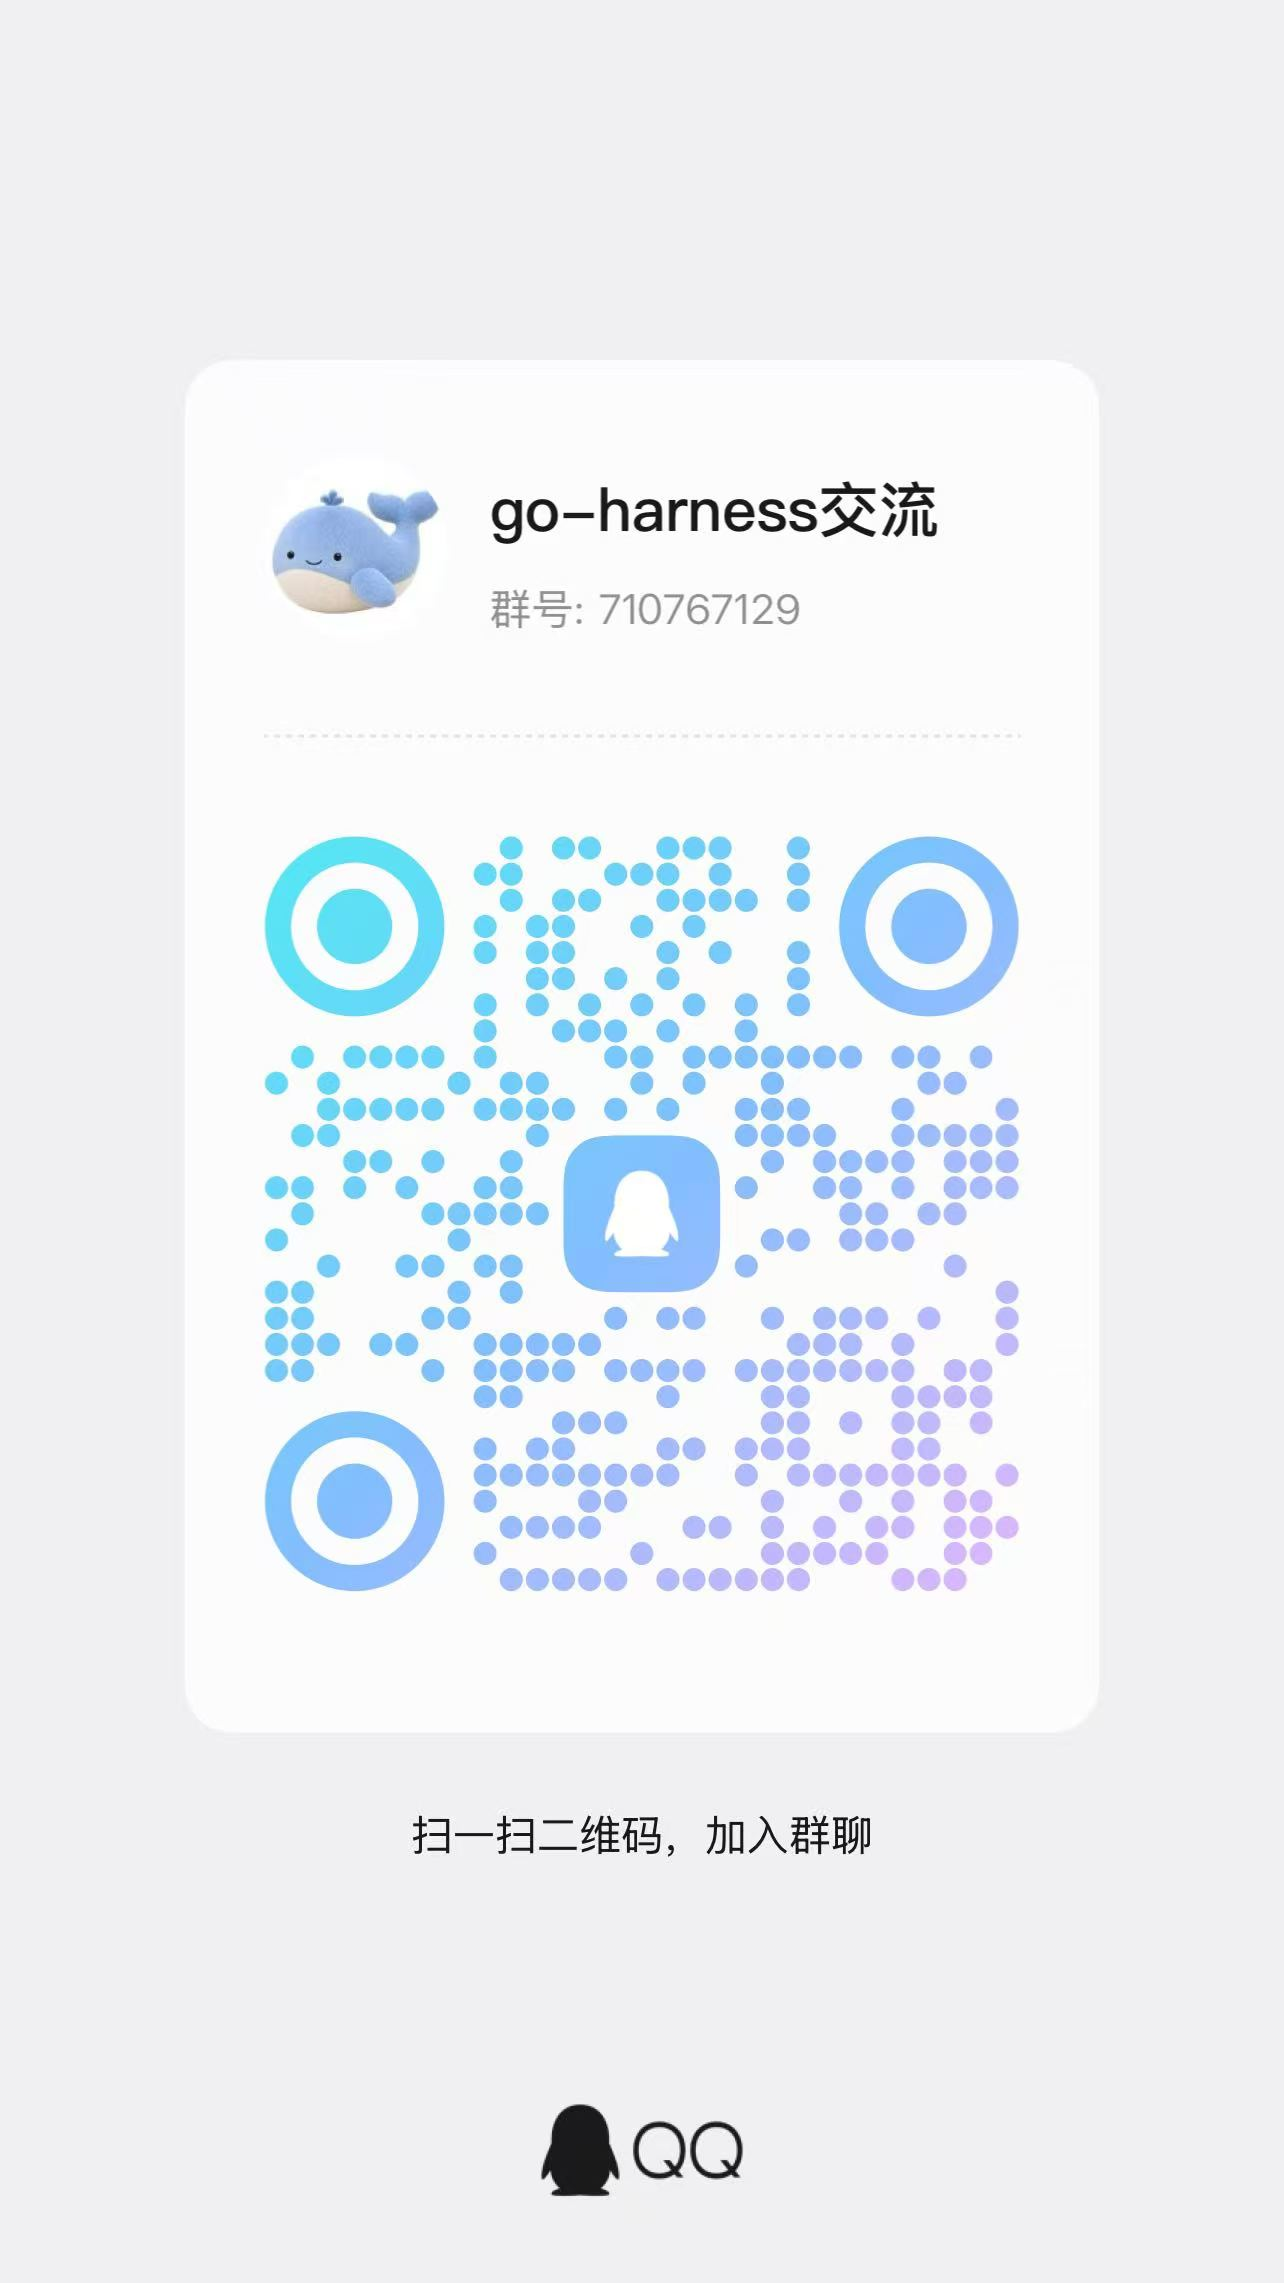
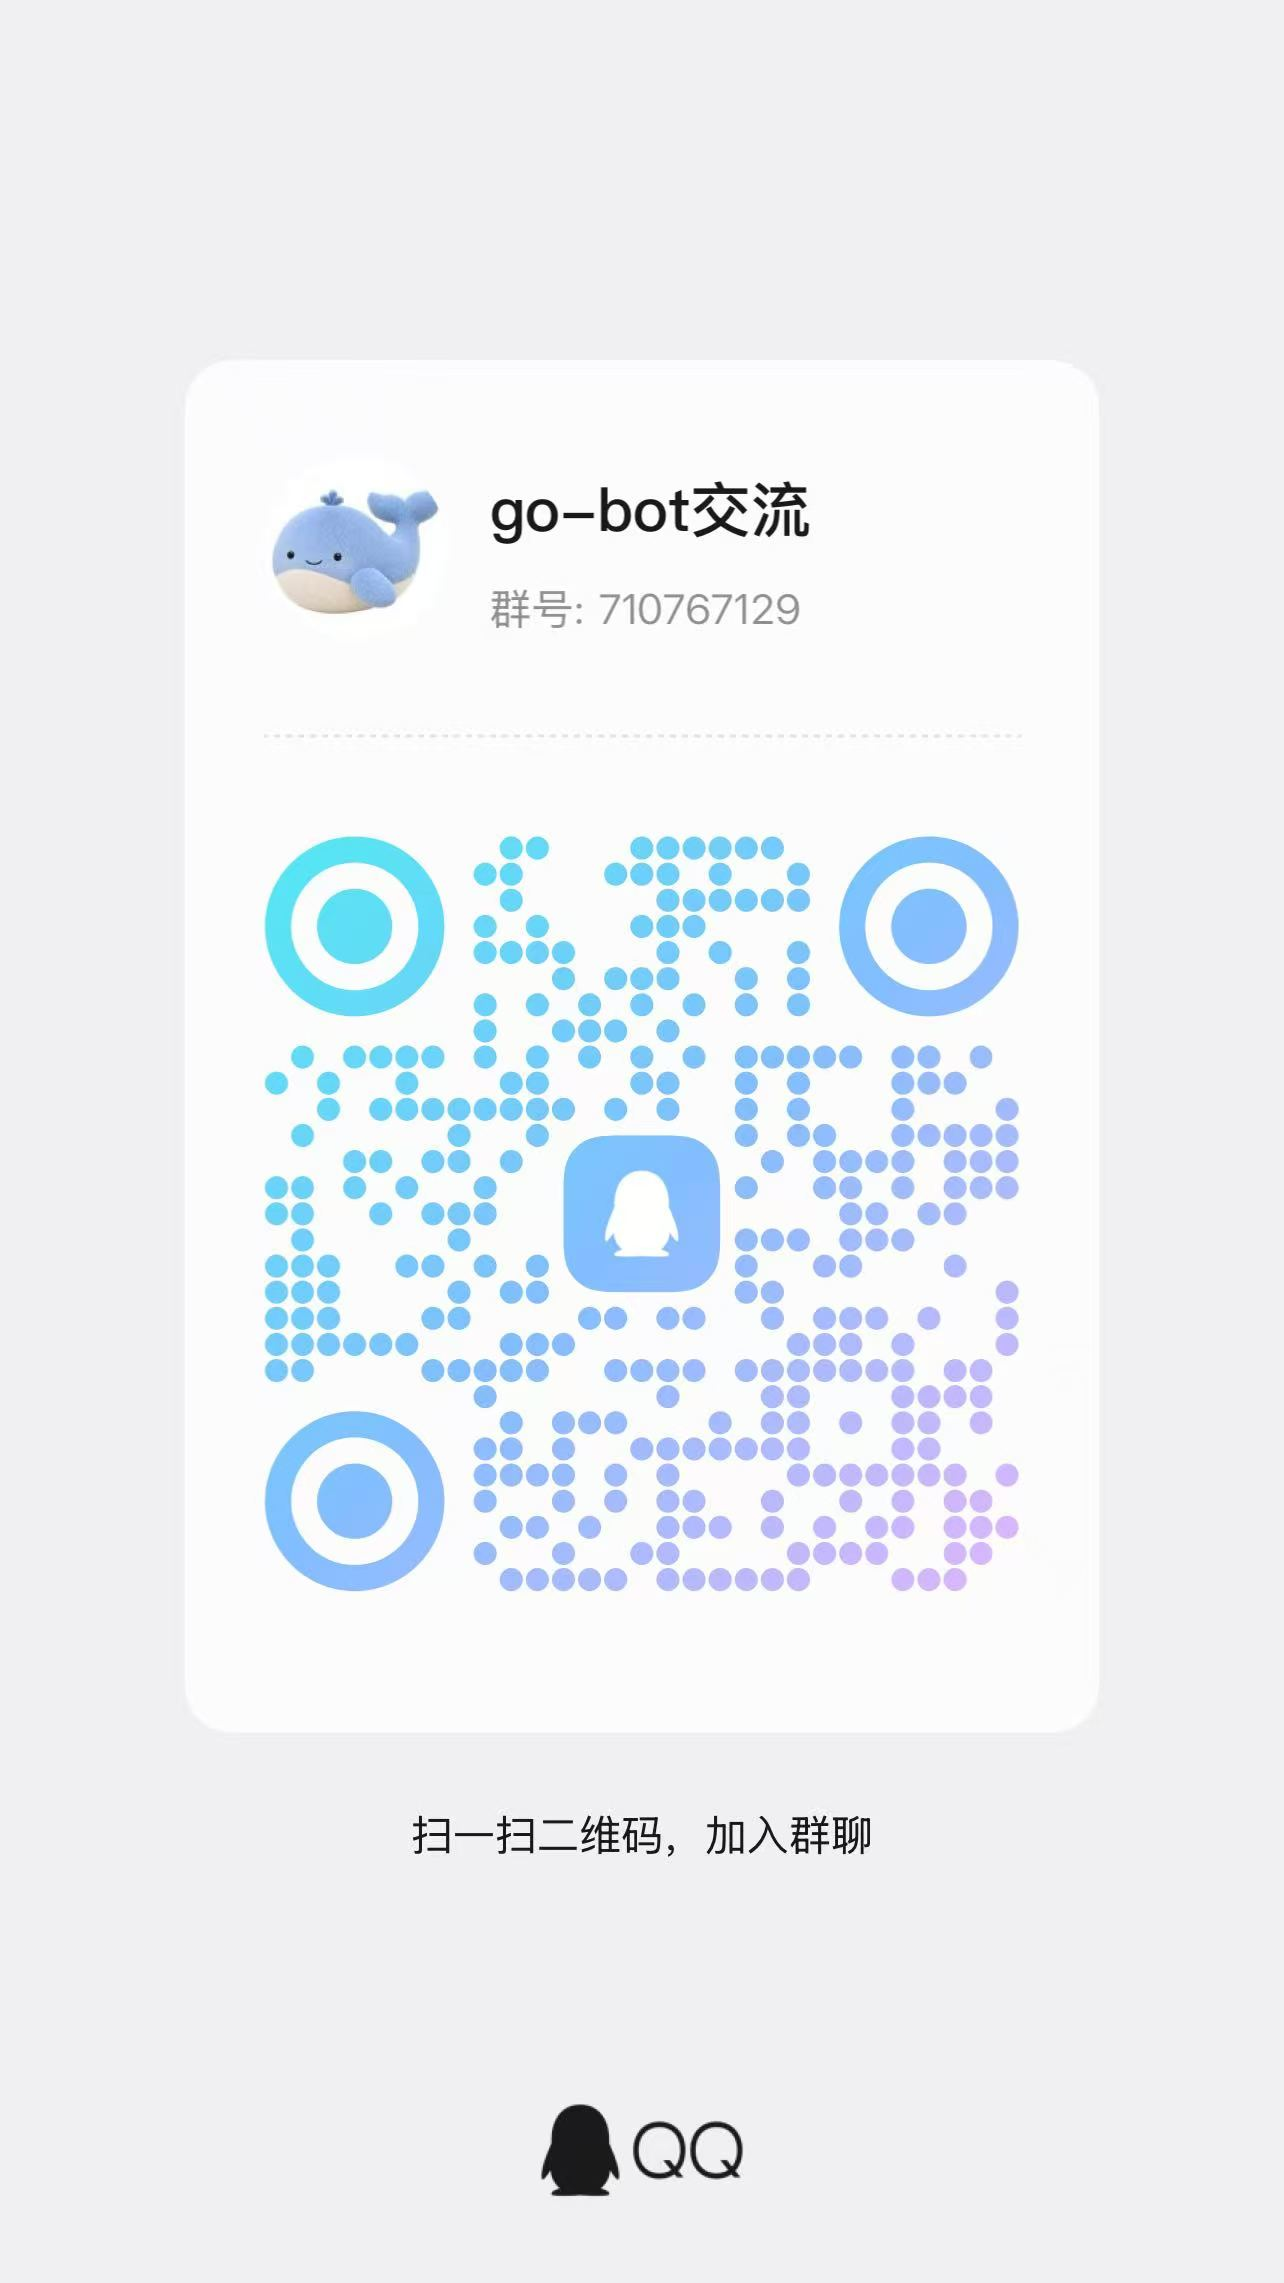
docs(readme): refresh demo galleries and community QR code

diff --git a/README.zh-CN.md b/README.zh-CN.md
@@ -30,31 +30,39 @@ go-bot 是用 Go 实现的 DeepSeek Harness，也是一款可自托管的 Person
 
 ### 移动端演示
 
-以下中文任务从 iOS 客户端发起，连接本地 Controller 和 Docker Host。Word 和 PPT 的动图末尾展示了在 WPS Office 中打开的成品。
+以下从移动端展示的中文会话均使用本地 Controller 和 Docker Host。Word 和 PPT 的动图末尾展示了在 WPS Office 中打开的成品。
 
-<table width="100%">
+<table align="center" width="100%">
   <tr>
-    <td width="50%" valign="top" align="center">
+    <td width="33%" valign="top" align="center">
       <h4>浏览器调研</h4>
-      <a href="docs/showcase/mobile-research-demo.png"><img src="docs/showcase/mobile-research-demo.png" width="340" alt="移动端查询斯坦福 AI Index，在会话中交付图表、Markdown 摘要和 CSV"></a>
+      <a href="docs/showcase/mobile-research-demo.png"><img src="docs/showcase/mobile-research-demo.png" width="260" alt="移动端查询斯坦福 AI Index，在会话中交付图表、Markdown 摘要和 CSV"></a>
       <p>核对斯坦福 AI Index，在会话中收到原文图表、摘要和数据表。<br><a href="docs/showcase/mobile-research-key.png">查看原尺寸关键帧</a></p>
     </td>
-    <td width="50%" valign="top" align="center">
+    <td width="33%" valign="top" align="center">
       <h4>Word 行业报告</h4>
-      <a href="docs/showcase/mobile-word-demo.png"><img src="docs/showcase/mobile-word-demo.png" width="340" alt="手机完成 Word 报告的制作与多轮修改，随后在 WPS Office 中打开成品"></a>
+      <a href="docs/showcase/mobile-word-demo.png"><img src="docs/showcase/mobile-word-demo.png" width="260" alt="手机完成 Word 报告的制作与多轮修改，随后在 WPS Office 中打开成品"></a>
       <p>制作行业报告，再补充调查口径和适合团队落地的试点方案。<br><a href="docs/showcase/mobile-word-key.png">查看原尺寸关键帧</a></p>
     </td>
-  </tr>
-  <tr>
-    <td width="50%" valign="top" align="center">
+    <td width="33%" valign="top" align="center">
       <h4>PPT 汇报</h4>
-      <a href="docs/showcase/mobile-slides-demo.png"><img src="docs/showcase/mobile-slides-demo.png" width="340" alt="手机制作并修改三页 PPT，随后在 WPS Office 中展示三页成品"></a>
+      <a href="docs/showcase/mobile-slides-demo.png"><img src="docs/showcase/mobile-slides-demo.png" width="260" alt="手机制作并修改三页 PPT，随后在 WPS Office 中展示三页成品"></a>
       <p>调整采用率说明，把最后一页改成三步试点计划。<br><a href="docs/showcase/mobile-slides-key.png">查看原尺寸关键帧</a></p>
     </td>
+  </tr>
+</table>
+
+<table align="center" width="67%">
+  <tr>
     <td width="50%" valign="top" align="center">
       <h4>两张参考图编辑图片</h4>
-      <a href="docs/showcase/mobile-image-demo.png"><img src="docs/showcase/mobile-image-demo.png" width="340" alt="移动端上传蓝鲸和色板，预览 Seedream 改色结果并保存到图库"></a>
+      <a href="docs/showcase/mobile-image-demo.png"><img src="docs/showcase/mobile-image-demo.png" width="260" alt="移动端上传蓝鲸和色板，预览 Seedream 改色结果并保存到图库"></a>
       <p>用 Seedream 给鲸鱼换色，全屏预览后保存到手机图库。<br><a href="docs/showcase/mobile-image-key.png">查看原尺寸关键帧</a></p>
+    </td>
+    <td width="50%" valign="top" align="center">
+      <h4>定时任务</h4>
+      <a href="docs/showcase/mobile-schedule-demo.png"><img src="docs/showcase/mobile-schedule-demo.png" width="260" alt="手机会话中的中文定时任务请求、创建确认和到点送达的提醒"></a>
+      <p>在手机会话中查看定时任务的创建确认，以及随后送达的检查清单。</p>
     </td>
   </tr>
 </table>
@@ -65,42 +73,40 @@ go-bot 是用 Go 实现的 DeepSeek Harness，也是一款可自托管的 Person
 [斯坦福 HAI《2026 AI Index》经济章节](https://hai.stanford.edu/ai-index/2026-ai-index-report/economy)，
 再用 OfficeCLI 把查到的资料整理成 Word 简报和 PPT，并根据后续消息修改两份文件。
 
-<table width="100%">
+<table align="center" width="100%">
   <tr>
-    <td width="50%" valign="top">
+    <td width="33%" valign="top" align="center">
       <h3>浏览器调研</h3>
-      <img src="docs/showcase/ai-research-demo.gif" width="100%" alt="中文调研请求、Agent 交付的资料附件与斯坦福 HAI 原文图表">
+      <img src="docs/showcase/ai-research-demo.gif" width="260" alt="中文调研请求、Agent 交付的资料附件与斯坦福 HAI 原文图表">
       <p>Agent 用 Chromium 核对行业数据，交付原文图表和调研摘要。</p>
       <a href="docs/showcase/ai-research-chat.webp">看会话截图</a> · <a href="docs/showcase/ai-index-source.webp">看原站图表</a>
     </td>
-    <td width="50%" valign="top">
+    <td width="33%" valign="top" align="center">
       <h3>Word 简报</h3>
-      <img src="docs/showcase/ai-word-demo.gif" width="100%" alt="从制作到修改 Word 简报的完整会话，以及在 WPS Office 中打开的成品">
+      <img src="docs/showcase/ai-word-demo.gif" width="260" alt="从制作到修改 Word 简报的完整会话，以及在 WPS Office 中打开的成品">
       <p>Agent 先制作单页简报，再补充采用率的调查口径和小团队试点建议，最后在 WPS Office 中查看成品。</p>
       <a href="docs/showcase/ai-word-demo.gif">查看大图</a>
     </td>
-  </tr>
-  <tr>
-    <td width="50%" valign="top">
+    <td width="33%" valign="top" align="center">
       <h3>PPT 汇报</h3>
-      <img src="docs/showcase/ai-slides-demo.gif" width="100%" alt="从制作到修改 PPT 的完整会话，以及在 WPS Office 中打开的三页成品">
+      <img src="docs/showcase/ai-slides-demo.gif" width="260" alt="从制作到修改 PPT 的完整会话，以及在 WPS Office 中打开的三页成品">
       <p>Agent 补充采用率的调查口径，将最后一页改成三步试点计划，最后在 WPS Office 中展示三页成品。</p>
       <a href="docs/showcase/ai-slides-demo.gif">查看大图</a>
-    </td>
-    <td width="50%" valign="top">
-      <h3>两张参考图编辑图片</h3>
-      <img src="docs/showcase/ai-image-demo.gif" width="100%" alt="上传蓝鲸和色板、调用 Seedream 生图并在会话中交付结果">
-      <p>Seedream 参考蓝鲸 Logo 和珊瑚杏色色板，重新配色并在会话中交付一张 2048 × 2048 的图片。</p>
-      <a href="docs/showcase/ai-image-result.webp">看生成结果</a>
     </td>
   </tr>
 </table>
 
-<table align="center" width="50%">
+<table align="center" width="67%">
   <tr>
-    <td valign="top" align="center">
+    <td width="50%" valign="top" align="center">
+      <h3>两张参考图编辑图片</h3>
+      <img src="docs/showcase/ai-image-demo.gif" width="260" alt="上传蓝鲸和色板、调用 Seedream 生图并在会话中交付结果">
+      <p>Seedream 参考蓝鲸 Logo 和珊瑚杏色色板，重新配色并在会话中交付一张 2048 × 2048 的图片。</p>
+      <a href="docs/showcase/ai-image-result.webp">看生成结果</a>
+    </td>
+    <td width="50%" valign="top" align="center">
       <h3>定时任务</h3>
-      <a href="docs/showcase/web-schedule-zh.gif"><img src="docs/showcase/web-schedule-zh.gif" width="100%" alt="中文网页会话中的定时任务请求、创建确认和到点送达的提醒"></a>
+      <a href="docs/showcase/web-schedule-zh.gif"><img src="docs/showcase/web-schedule-zh.gif" width="260" alt="中文网页会话中的定时任务请求、创建确认和到点送达的提醒"></a>
       <p>创建一次性提醒。任务到点后，检查清单会送达原会话。</p>
     </td>
   </tr>
@@ -282,10 +288,10 @@ Compose 负责启动 Redis 并构建前端。Agent 使用的 Python、Node.js、
 
 ## 社区交流
 
-欢迎加入 **项目 QQ 交流群**，交流部署和使用经验，也可以提出问题或反馈建议。
+欢迎加入 QQ 群 **go-bot交流**，交流部署和使用经验，也可以提出问题或反馈建议。
 用 QQ 扫描下方二维码，或直接搜索群号 **710767129**。
 
-<a href="assets/qq-community.jpg"><img src="assets/qq-community.jpg" width="260" alt="项目 QQ 交流群二维码，群号 710767129"></a>
+<a href="assets/qq-community.jpg"><img src="assets/qq-community.jpg" width="260" alt="go-bot交流 QQ 群二维码，群号 710767129"></a>
 
 ## 上游项目与致谢
 

diff --git a/README.md b/README.md
@@ -78,29 +78,37 @@ These demos use the English web UI and a local Docker Host. The agent checks the
 economic findings in Chromium and uses OfficeCLI to create and revise a Word brief
 and a PowerPoint deck. [Stanford HAI 2026 AI Index](https://hai.stanford.edu/ai-index/2026-ai-index-report/economy)
 
-<table width="100%">
+<table align="center" width="100%">
   <tr>
-    <td width="50%" valign="top">
+    <td width="33%" valign="top" align="center">
       <h3>Browser research</h3>
-      <a href="docs/showcase/en/web-research.gif"><img src="docs/showcase/en/web-research.gif" width="100%" alt="English browser research request and sourced answer in the Web chat"></a>
+      <a href="docs/showcase/en/web-research.gif"><img src="docs/showcase/en/web-research.gif" width="260" alt="English browser research request and sourced answer in the Web chat"></a>
       <p>Check industry data in Chromium and get an English answer with source links.</p>
     </td>
-    <td width="50%" valign="top">
+    <td width="33%" valign="top" align="center">
       <h3>Word brief</h3>
-      <a href="docs/showcase/en/web-word.gif"><img src="docs/showcase/en/web-word.gif" width="100%" alt="English Web conversation from Word creation to revision, followed by the finished brief in WPS Office"></a>
+      <a href="docs/showcase/en/web-word.gif"><img src="docs/showcase/en/web-word.gif" width="260" alt="English Web conversation from Word creation to revision, followed by the finished brief in WPS Office"></a>
       <p>Create an AI adoption brief and revise its layout and pilot recommendation.</p>
     </td>
-  </tr>
-  <tr>
-    <td width="50%" valign="top">
+    <td width="33%" valign="top" align="center">
       <h3>PowerPoint briefing</h3>
-      <a href="docs/showcase/en/web-slides.gif"><img src="docs/showcase/en/web-slides.gif" width="100%" alt="English Web conversation from PowerPoint creation to revision, followed by the three slides in WPS Office"></a>
+      <a href="docs/showcase/en/web-slides.gif"><img src="docs/showcase/en/web-slides.gif" width="260" alt="English Web conversation from PowerPoint creation to revision, followed by the three slides in WPS Office"></a>
       <p>Build a three-slide briefing and revise the last slide into a three-step rollout.</p>
     </td>
-    <td width="50%" valign="top">
+  </tr>
+</table>
+
+<table align="center" width="67%">
+  <tr>
+    <td width="50%" valign="top" align="center">
       <h3>Image editing with two references</h3>
-      <a href="docs/showcase/en/web-image.gif"><img src="docs/showcase/en/web-image.gif" width="100%" alt="English Web conversation showing the two reference images and the generated coral whale"></a>
+      <a href="docs/showcase/en/web-image.gif"><img src="docs/showcase/en/web-image.gif" width="260" alt="English Web conversation showing the two reference images and the generated coral whale"></a>
       <p>Use Seedream to recolor the project mascot from a reference swatch.</p>
+    </td>
+    <td width="50%" valign="top" align="center">
+      <h3>Scheduled reminder</h3>
+      <a href="docs/showcase/en/web-schedule.gif"><img src="docs/showcase/en/web-schedule.gif" width="260" alt="English web chat showing the request, scheduled task confirmation, and delivered reminder"></a>
+      <p>Create a one-time reminder and get the checklist in the same chat when it runs.</p>
     </td>
   </tr>
 </table>
@@ -308,10 +316,10 @@ credentials and bind access to the authenticated account.
 
 ## Community
 
-Join the project’s QQ group to ask questions, share setups, or give feedback.
+Join **go-bot交流** on QQ to ask questions, share setups, or give feedback.
 Scan the QR code in QQ or search for group **710767129**.
 
-<a href="assets/qq-community.jpg"><img src="assets/qq-community.jpg" width="260" alt="QR code for the project QQ group, 710767129"></a>
+<a href="assets/qq-community.jpg"><img src="assets/qq-community.jpg" width="260" alt="QR code for the go-bot交流 QQ group, 710767129"></a>
 
 ## Upstream and acknowledgments
 
